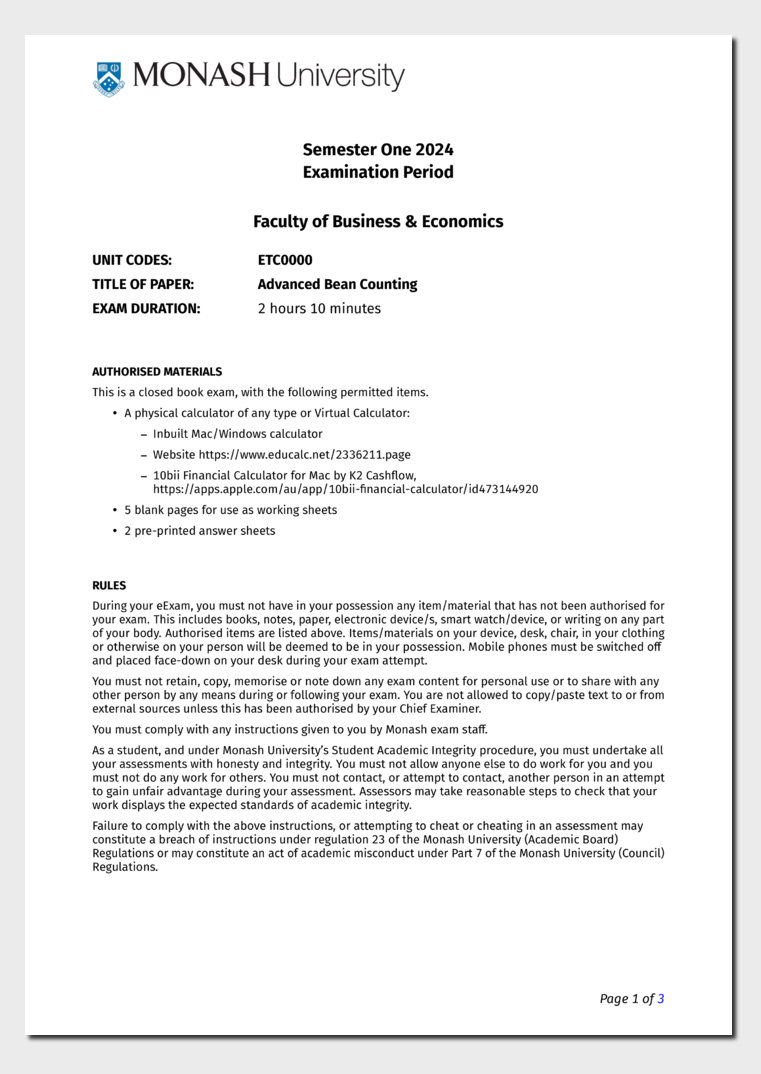
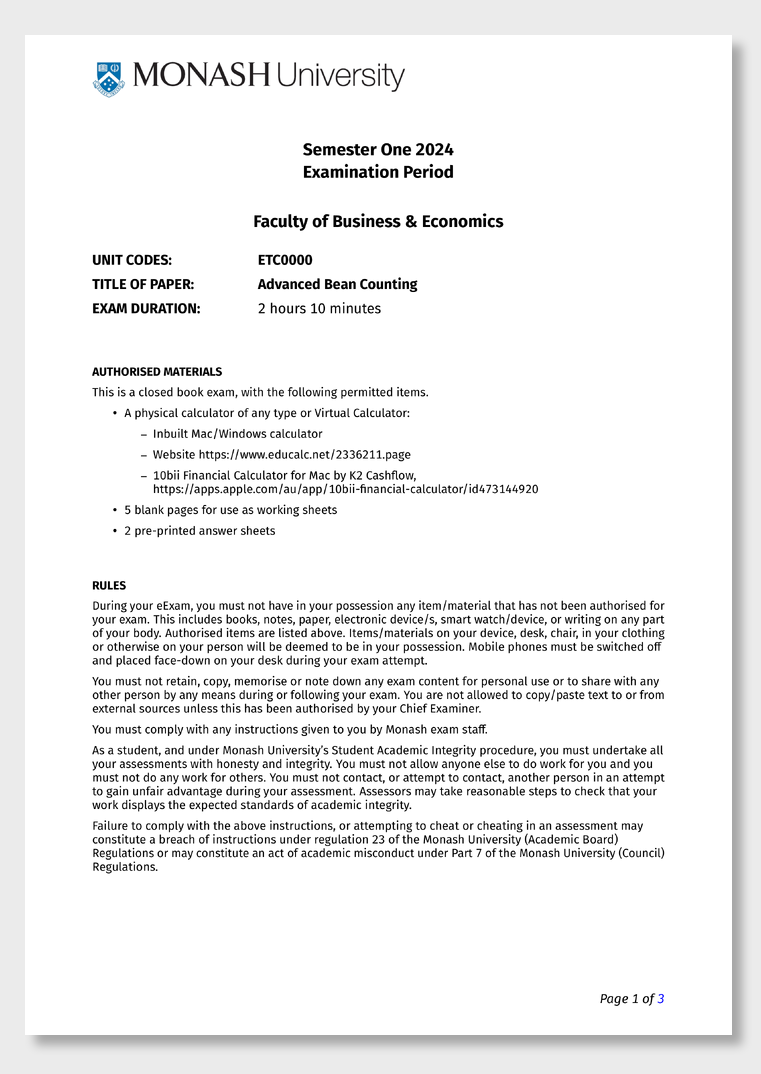
Tighter mono font

diff --git a/_extensions/exam/before-title.tex b/_extensions/exam/before-title.tex
@@ -2,7 +2,7 @@
 \usepackage{bera}
 \usepackage[charter]{mathdesign}
 \usepackage[lf,t]{FiraSans}
-\usepackage[scale=0.9]{sourcecodepro}
+%\usepackage[scale=0.9]{sourcecodepro}
 
 \usepackage{lastpage,fancyhdr,verbatimbox,bm}
 \usepackage[bottom]{footmisc}
